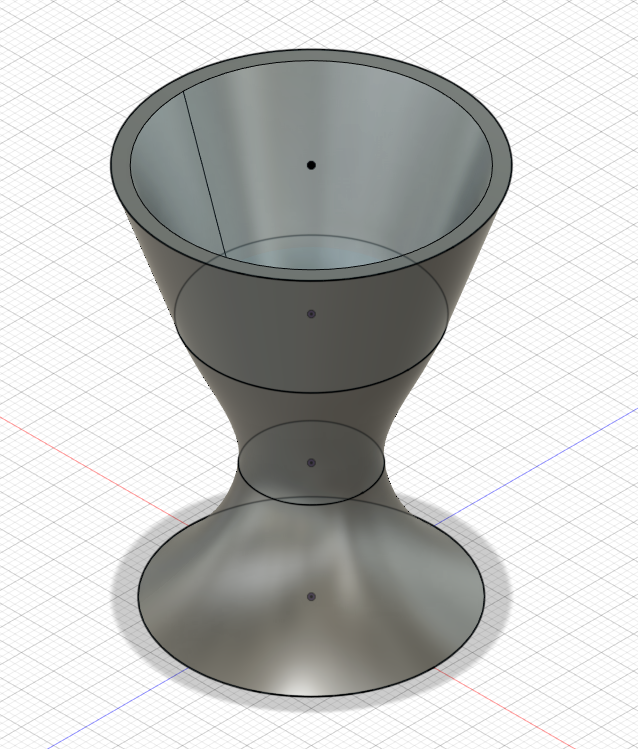
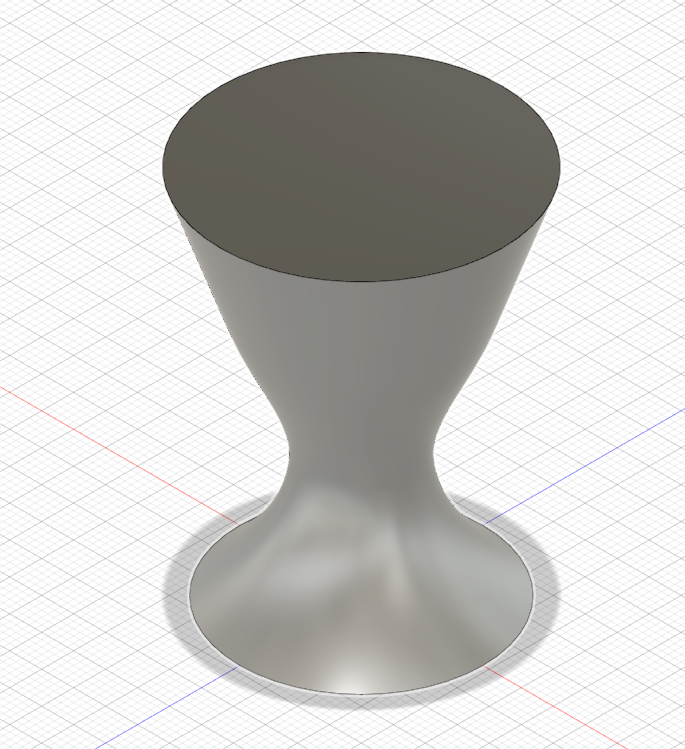
Updated 3D printing and  computer aided design

diff --git a/3D Printing.html b/3D Printing.html
@@ -1,0 +1,101 @@
+<!DOCTYPE html>
+<html>
+      <head>
+	        <title> Rayan Tan's website </title>
+			<link rel="stylesheet" type="text/css" href="style.css" />
+			<style>
+			#header {
+			       background-color: #000000 ;
+				   }
+				   </style>
+			</head> 
+			<body> 
+			<div id="container"> 
+			     <div id ="header">
+				    <h1>  DIGITAL FABRICATION & PROTOTYPING FUNDAMENTALS  </h1> 
+			</div>
+				   <div id="content">
+				       <div id="nav">
+					   <h3 style="color: black;">Navigation</h3> 
+					 <ul>
+					   <li><a href="index.html">Home</a></li>   
+					   <li><a href="about.html"> About Me</a></li>
+					   <li><a href="contact.html">Contact</a></li>
+		               <li><a href="Fablab Safety & Tools.html"> Fablab Safety & Tools</a></li>
+                       <li><a href="Web Development.html">Web Development</a></li>
+					   <li><a href="Computer Aided Design.html">Computer Aided Design</a></li>
+					   <li><a class="selected" href="3D Printing.html">3D Printing</a></li>
+					   <li><a href="Computer Controlled Cutting.html">Computer Controlled Cutting</a></li>
+					   <li><a href="Embedded Programming.html">Embedded Programming</a></li>
+					   <li><a href="Module Project.html">Module Project</a></li>
+					 </ul>
+				  </div>
+				 
+				    <div id="main">
+				        <h2>3D Printing</h2>
+						
+						<h3> Introduction </h3>
+                         <p>The Slicing software we will be using for this topic is called Cura </P>
+						 
+						 <p>After creating 3D models in Fusion 360, the models can be imported as a STL file into Cura, which can then bring the models to life. </p>
+                       <br>
+                       <p>However, even 3D printers have their limits and these limitations can be grouped into 4 categories. </p>
+                       <br>
+                       
+                       
+                       <h2>OverHangs</h2>
+                       <p>Any part of a print that extends outwards without any support structures is known as a overhang.</p>
+                       <p>Without anything to support the print, the part that is overhang will result in the material dripping downwards.</p>
+                       <img src="images/Overhang.PNG" width="600px" height= "300px" />
+                       
+                       
+                       
+                       <h4>Solution </h4>
+					<p>Simply adding a support structure that can be ripped out of the model afterwards will fix this problem. </p>
+                       <br>
+                       
+                       <h2> Bridging </h2>
+                       <p> Bridging is very similar to an overhang.The only difference is that bridging involves linking two raised points horizontally</p>
+                        <img src="images/Bridge.jpg" width="500px" height= "300px" />
+                        <h4>Solution </h4>
+                       <p>Same as overhang</p>
+                       <br>
+                       <h2> Raft , Brim and Skirts</h2>
+                       <p> Raft ,Brim and Skirts are something like base supports that ensure that printing goes smoothly so that the print material will not go to waste.</p>
+                       
+                       <h3> Raft </h3>
+                       <p>Raft is used to support 3D prints ,with small bases, by creating a strong foundation. Raft also improves bed adhesion and prevent warping.However a raft uses a lot of material.</p>
+                       <br>
+                       <h3> Brim </h3>
+				  <p>Brim is very similar to Raft except that Brim isnt as strong of a support and is used to hold down the edges of a print. </p>
+                       <p>Like Raft , it also improves bed adhesion and prevent warping.</p>
+                       <h3>Skirt</h3>
+                       <p>Skirt does not serve as a base support unlike Raft and Brim , instead it is used for priming the extruder and early detection of any printing errors. </p>
+                       
+                    <h3>Infills</h3>
+                       <p> Infills are what make up the inner structure of a print.</p>
+                       <img src="images/infill.JPG" width="500px" height= "300px" />
+				   <h4>Infill density </h4>
+                       <p>A high infill density makes the print heavier and stronger.However it takes a lot longer , the denser the infill is. A low infill denisty makes the print more fragile and light but it uses way lesser materials and saves time.In Fablab, it is recommended that</p>
+                       <img src="images/infill density.JPG" width="500px" height= "300px" />
+                       
+                       <ul>
+                       <li>10%-15% infill for prototyping</li>
+                           <li>20%-25% for finalising prototypes</li>
+                           <li>30%-35% for large objects and should be avoided if possible</li>
+                           <li>50%-100% should never be used because it is really slow and wastes material</li>
+                       </ul>
+                       
+                       <img src="images/printers.JPG" width="500px" height= "400px" />
+                       
+				  
+				    </div>
+		    </div>
+				 <div id="footer">
+				     Copyright &copy; 2020 Rayan Tan
+				 </div>
+		    </div>
+		</body>
+</html>
+				 
+				 

diff --git a/Computer Aided Design.html b/Computer Aided Design.html
@@ -58,7 +58,7 @@
                        <li> Photoshop</li>
                        <li>Illustrator</li>
                        <li>Coreldraw</li>
-                       <li>Fussion 360,free for a year</li>
+                       <li>Fusion 360,free for a year</li>
                        </ol>
                        
                        
@@ -66,6 +66,7 @@
 				   
                        <p>To start off this new topic we used Fusion 360 to create a very simple object uing very basic methods.</p> 
 				        <p>The first mini project we did is a name tag</p>
+                       <h3>Name Tag</h3>
 				   <img src="images/Name Tag.JPG" width="500px" height= "400px" />
                        
                        <h4>Steps</h4>
@@ -85,28 +86,35 @@
                            <li>change operation to cut and press ok </li>
                        </ol>
 				   
-				   <p> These are the results </p>
-				   
-				   <img src="images/html website 1.PNG" width="500px" height= "400px" />
-				   
-				   <img src="images/html website 2.PNG" width="500px" height= "400px" />
-				   
-				   <h3> CSS </h3>
-				   <p>CSS , combined with HTML, is used to create the website you are looking at right now </P>
-				   
-				   <p> CSS is used to give the website a style</p> 
-				   
-				   <img src="images/CSS 1.JPG"width="500px" height= "380px" />
-				   
-				    <h4>CSS tools </h4>
-                       <p> div id="" is used to give a tag to an element , so that whichever element that is labelled with a tag is easy to refer to  </p>
+				  <h3>Egg Cup</h3>
+                       <img src="images/egg cup 4.JPG" width="350px" height= "425px" />
                        
-                       <p> use the symbol " # " to refer an element , followed by the name of the tag (for example:#header) </p>
+                       <h4>Steps</h4>
                        
-                       <p> background-color: is as it suggests , to add colour to the background , input a colour hexcode at the end to choose a color </p>
-                       
-                       <p> text-align: is used to adjust the text alignment(for example: text-align:center)   </p>
-                       
+                       <ol>
+                       <li>Create sketch and select centre diam circle , plaace a circle in the origin </li>
+                        <li>choose a plane and make the diameter 38mm </li>
+                           <img src="images/egg cup 1.PNG" width="500px" height= "400px" />
+                           <li>Right click on the circle and click offset plane</li>
+                           <li> move the offset circle by 18mm vertically</li>
+                           <li>Repeat step 1 to 3 but move the offset plane for circle 3 and 4 by 20mm, with diameter 30mm and 44mm respectively</li>
+                           <img src="images/egg cup 2.PNG" width="500px" height= "450px" />
+                           <li>Finish sketch and select the loft tool </li>
+                           <li>Click every circle with new body as its operation</li>
+                           <img src="images/egg cup 3.PNG" width="400px" height= "450px" />
+                           <li>select shell tool and click top circle</li>
+                           <li>Make the thickness 2mm and you are done </li>
+                           <img src="images/egg cup 4.JPG" width="350px" height= "425px" />
+                       </ol>
+                       <h3>Laser cut box</h3>
+                          <p>First  set up parameters so that it will easier to change the dimensions of the laser cut box after modelling everything</p>
+                           
+                           <ul>
+                               <p>note:does not have to be these exact measurments</p>
+                               <li>Length: 60mm</li>
+                               <li>Thickness: 3mm</li>
+                               <li>Slot: 20mm</li>
+                           </ul>
                        
 				    </div>
 		    </div>

diff --git a/style.css b/style.css
@@ -1,6 +1,8 @@
 body {
-	background-color: #FF2A67;
+    background-image: url(images/fault.JPG);
+	background-color: #000000;
 	font-family:Helvetica, Arial, sans-serif;
+    background-repeat: no-repeat;
 }
 
 
